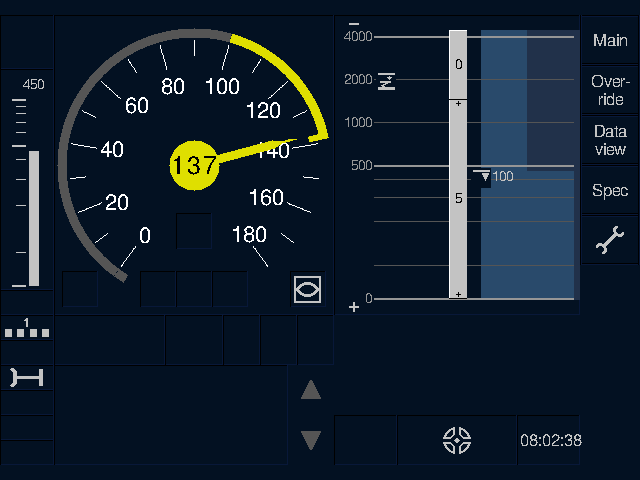
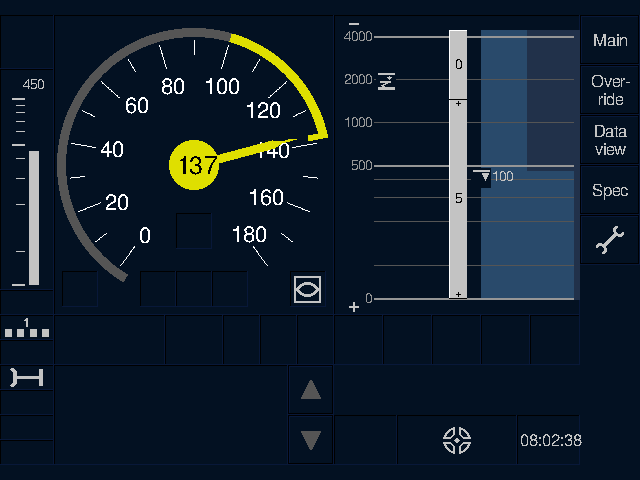
docs: P4 closed; outcomes, choices and open points of the three branches; README figures and screenshots

diff --git a/doc/AUDIT-2026-09.md b/doc/AUDIT-2026-09.md
@@ -270,6 +270,49 @@ New open points from P3:
 - The simulator still ignores the values of the driver id and TRN, and
   its RBC and radio network are 2 s timers.
 
+## Follow-up: P4 closed on 2026-09-26
+
+Merges of `p4/tti-bold`, `p4/dial` and `p4/frames`, three parallel Opus
+branches from 4e1c1f6 (after the Latin Extended-A fonts and Hungarian).
+Pixel work moves most goldens: each branch re-recorded after looking at
+a representative set and comparing against the PDF figures at the cell
+level (pages rendered at 600 dpi), and the merges re-recorded again the
+frames that more than one branch moved, after viewing samples of every
+area.
+
+| ID | Outcome |
+|---|---|
+| SUP-8 | Fixed. `MSG_STATUS` carries the TTI as u16 tenths of a second (16#FFFF# none; 23 bytes, the 22 byte layout is ignored as a whole); TdispTTI stays whole seconds (SUBSET-026 A.3.1: 14 s). The step is `DMI_Status.TTI_Step` = 10 - tenths / TdispTTI, the exact reading of Table 15a, checked at both bounds of every step. The simulator sends none: SUBSET-026 3.13.10.3.10 computes a TTI only under A_MAXREDADH, which it does not model (open). The bench pages gained a `MSG_STATUS` row (TTI, TdispTTI). |
+| SDI-11 | Fixed. FreeSansBold 20120503 (digest pinned in `utils/gen_fonts.sh`) rendered at 12 cells, the one size bold is used at (first group messages 5.1.2.2.3 h, the '.' key 5.1.2.1.5), about 9 kB of ROM; `Display.Draw` takes a Bold parameter, the double strike and `Bold_Extra` are gone, text message wrapping measures with the bold advances. Choice: bold at another size draws the regular face of that size. The bold '.' rasterises to the same 2x2 as the regular one. |
+| String_Width (open point) | Fixed. The width counts the ink of the last glyph where it exceeds the advance ('y', 'V', '/', ...), so right aligned and centred text stays out of its margin; `String_Advance` places the pen. The C1 name box of LE08 / LE09 is one cell wider for "PZB/". |
+| SUP-6 | Fixed. The dial centre is the corner point (140, 150) of 6.3.1.2 and a cell belongs to a shape when its centre lies inside it (no blending); the CSG is 9 cells (radius 128 to 137, 8.2.1.4.6); the release speed on the CSG is 3 cells permitted, 1 cell background and 5 cells release (8.2.1.6.4, Figures 47 / 48); Vperm below Vrelease gives medium grey across the 9 cells (Figure 48). Also corrected while there: the indicator lines 15 / 25 cells (8.2.1.1.6 / .7), the pointer circle 50 (Figure 34), the set speed and advice discs 10, the over-speed band 20 cells (8.2.1.4.8). Choice: the release band stays medium grey as Table 9 says although Figures 47 / 48 draw it light grey; the needle keeps its odd widths centred on the cell right of and below the centre. |
+| SUP-7 | Fixed. Every digit right aligned in its sub area of B1 and fewer digits take the right most ones (8.2.1.3.3 / .4). Choice (merge): B1 is 50 cells wide like the pointer circle, so a digit aligned to its right edge lost its corners outside the circle; the sub areas are laid out over the 46 cells that leave 2 free on each side (right limits 17, 33, 48), which keeps an 18 cell digit inside the circle (8.2.1.3.2) as Figure 38 shows. |
+| SUP-10 | Fixed. The CSG hook is a 6x20 and the basic speed hooks are 10x20 cell rectangles with the long side along the radius from the outer border of the CSG inward, the short side on the lower speed side (8.2.1.4.7, 8.2.1.5.4 / .5, Figures 37 / 47); the release parts are drawn over the hook as in Figure 48. px_* goldens pin the geometry per dial range and hook case. |
+| SUP-9 | Fixed. The A3 lines are 9 and 13 cells at the positions of Table 12 (short lines 1 row, long lines 2 rows downward), the bar 10 cells wide with its last row at 185, the height from an integer table of the 153 log limits (a 32 bit float put 262 m within 1e-4 of a cell edge); rounding copied from Table 12 (row down, height up), 0 m shows no bar, above 1000 m shows 1000 (8.2.2.1.4, 8.2.2.1.6, Figure 50 checked cell by cell). |
+| SDI-10 | Fixed. One input field border per part of the TAF question box: the question part 335-496 and 'Yes' 497-578 on rows 65-114 (8.2.3.3.14, 5.1.1.1.4), DR02 centred (8.2.3.3.10). Choices: the box at D-relative (1, 50) as Figure 60 draws it (the text's (0, 50) would cover D's border); the divider at X 496 from the text although Figure 60 shows none; no flashing, 8.2.3.3 asks for none. |
+| GEN-9 | Fixed. A disabled E10 / E11 keeps the button border around NA15 / NA16 (5.3.2.5.5 a, Figure 60). The other disabled symbol buttons already followed the rule. Open: D9 / D12 have no border enabled or disabled, as Figures 50 and 73 draw them, against 5.3.2.5.2. |
+| 8.1.1.4 b (open point) | Fixed. G1-G5 bordered in every default window; G2-G4 merge into one area only while ATO shows the name and arrival time outside stopping points. The corner cells of area and button borders belong to the shadow lines as Figures 50 and 60 draw them (5.1.1.1.2 / .3); after it the border cells of A, C, E, F and G in a default window equal Figure 50, except D's bottom left cell, which the figures draw black and is taken as an artefact. |
+
+GEN-7 was closed in P2 (fonts, keyboard digits at 16 cells); nothing of
+it remained.
+
+Verification at 5c072ed: `obj/dmi_test` 2156 checks (295 goldens), 0
+failures; `obj/dmi_fuzz` seeds 1 and 7 x 60000 clean; `smoke.js`
+identical digests; `fuzz.js` seeds 1 and 7 x 20000 without trap.
+
+New open points from P4:
+
+- The simulator sends no TTI: SUBSET-026 3.13.10.3.10 computes one only
+  under A_MAXREDADH, which it does not model.
+- A 16 cell bold '.' would need a FreeSansBold_16 package; at 12 cells
+  the bold dot rasterises like the regular one.
+- D9 / D12 zoom buttons have no button border, as Figures 50 and 73
+  draw them, against 5.3.2.5.2.
+- The data view label "Maximum speed (km/h)" and its Hungarian form are
+  close to the left edge of the label column at size 12.
+- Figures 47 / 48 draw the release band light grey where Table 9 says
+  medium grey; the table is followed.
+
 ## Known issues
 
 | ID | Issue |

diff --git a/README.md b/README.md
@@ -50,7 +50,7 @@ The rules that have proven necessary so far:
   claims, including requirements that do not exist; [PLAN.md](PLAN.md)
   §1 records the check claim by claim, and a verified plan replaced it.
 - **Behaviour is pinned by executable checks.** The regression
-  runner makes 2021 checks: 262 rendered screens compared with golden
+  runner makes 2156 checks: 295 rendered screens compared with golden
   frames, sound events, and a complete simulated mission. The
   WebAssembly build has to render the same pixels as the native one. A
   change that alters a screen fails a check, and a person has to look at
@@ -73,9 +73,10 @@ VBC, ATO selector, System version and Language windows (English,
 German and Hungarian), the ATO displays of chapter 8.5, the chapter 15 message
 catalogue, the desk inputs for Settings and isolation, touch input, and
 the EVC/track/train simulator (with an ATO on-board, shunting,
-Supervised Manoeuvre and a stand-in RBC) are implemented. Still open:
-the pixel conformance pass (P4 of the plan) and the optimisation for the
-embedded memory budget. The national systems part of the specification
+Supervised Manoeuvre and a stand-in RBC) are implemented. The pixel
+geometry of the speed dial, the distance bar and the frames follows the
+figures cell by cell. Still open: the optimisation for the embedded
+memory budget and the open points listed in the audit. The national systems part of the specification
 (NTC, chapters 9 and 12) and the soft-key variant of the layout are out
 of scope.
 

diff --git a/PLAN.md b/PLAN.md
@@ -397,7 +397,11 @@ doc/national-instructions, the fonts extended to Latin Extended-A for it).
     **GEN-11** desk input for Settings; **SDI-8** national system name in the level
     symbols (display level only, see the scope decision).
 
-### P4 — Pixel conformance
+### P4 — Pixel conformance — DONE 2026-09-26
+All items are merged (three parallel branches); outcomes, choices and new open
+points are in the P4 follow-up section of [doc/AUDIT-2026-09.md](doc/AUDIT-2026-09.md).
+GEN-7 had been closed in P2. With it the September 2026 backlog is closed; what
+remains is in the audit's open points and Phase 5.
 25. **SUP-6, SUP-7, SUP-9, SUP-10** gauge band widths, digital speed alignment,
     distance bar lines, hooks as rectangles. **SUP-8** TTI in tenths of a second.
 26. **GEN-7, GEN-9, SDI-10, SDI-11** font heights and keyboard digit size, disabled
